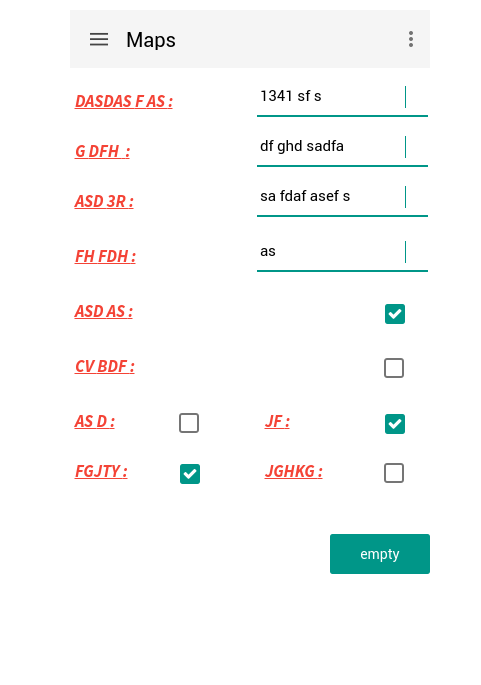
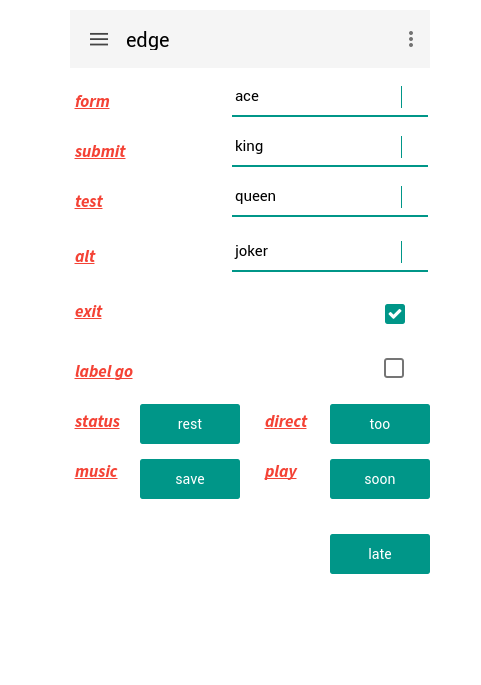
Added latest changes to develop

diff --git a/src/main/java/Pic2Code.java b/src/main/java/Pic2Code.java
@@ -1,0 +1,78 @@
+import model.Form;
+import model.FormWithText;
+import model.Row;
+import utils.*;
+import utils.text_extractor.TextExtractor;
+import utils.xml.ParserXML;
+
+import javax.imageio.ImageIO;
+import java.awt.*;
+import java.awt.datatransfer.StringSelection;
+import java.awt.image.BufferedImage;
+import java.util.List;
+
+public class Pic2Code {
+
+  private static Pic2Code INSTANCE;
+
+  private ProjectUtils project;
+  private ParametersHandler paramHandler;
+  private final BufferedImage image;
+  private List<Form> forms;
+
+  private Pic2Code(String[] args) throws Exception {
+    consoleMessage("Load project settings");
+    this.project = new ProjectUtils();
+
+    consoleMessage("Check parameters");
+    paramHandler = new ParametersHandler(args);
+    paramHandler.parseParameters();
+
+    consoleMessage("Read image");
+    image = ImageIO.read(paramHandler.getInputImage());
+
+    consoleMessage("Parse XML");
+    ParserXML parser = new ParserXML();
+    forms = parser.parse(paramHandler.getInputXML());
+    consoleMessage("Compute bias values");
+    forms = FormUtils.computeBias(forms, image.getWidth(), image.getHeight());
+  }
+
+  public void handle() {
+    try {
+      consoleMessage("Extract text");
+      TextExtractor textExtractor = new TextExtractor();
+      List<FormWithText> formsWithText = textExtractor.extract(image, forms);
+
+      // Skip divider operations for a while
+//      Divider divider = new Divider();
+//      List<Row> rows = divider.getRows(formsWithText);
+      //
+
+      consoleMessage("Generate code");
+      String code = CodeGeneratorUtils.generate(formsWithText);
+      Toolkit.getDefaultToolkit().getSystemClipboard().setContents(new StringSelection(code), null);
+
+      consoleMessage("Create Android project");
+      project.createAndroidProject(paramHandler.getOutDirectory());
+      project.writeContentXml(paramHandler.getOutDirectory(), code);
+      consoleMessage("Done");
+    } catch (Exception e) {
+      e.printStackTrace();
+    }
+  }
+
+  public static void init(String[] args) throws Exception {
+    if (INSTANCE == null) {
+      INSTANCE = new Pic2Code(args);
+    }
+  }
+
+  public static Pic2Code getInstance() {
+    return INSTANCE;
+  }
+
+  public static void consoleMessage(String msg) {
+    System.out.println(String.format("# %s", msg));
+  }
+}

diff --git a/src/main/java/utils/text_extractor/TextExtractorThreadPool.java b/src/main/java/utils/text_extractor/TextExtractorThreadPool.java
@@ -27,23 +27,27 @@ public class TextExtractorThreadPool {
   private void initCallables(List<Pair<Form, AnnotateImageRequest>> requests) {
     for (Pair<Form, AnnotateImageRequest> pair : requests) {
       Callable<FormWithText> callable = () -> {
-        if (pair.getSecondValue() == null)
-          return new FormWithText(pair.getFirstValue(), null);
+        try {
+          if (pair.getSecondValue() == null)
+            return new FormWithText(pair.getFirstValue(), null);
 
-        BatchAnnotateImagesResponse response = visionClient.batchAnnotateImages(Collections.singletonList(pair.getSecondValue()));
-        List<AnnotateImageResponse> responsesList = response.getResponsesList();
+          BatchAnnotateImagesResponse response = visionClient.batchAnnotateImages(Collections.singletonList(pair.getSecondValue()));
+          List<AnnotateImageResponse> responsesList = response.getResponsesList();
 
-        if (responsesList.isEmpty())
-          return new FormWithText(pair.getFirstValue(), null);
+          if (responsesList.isEmpty())
+            return new FormWithText(pair.getFirstValue(), null);
 
-        AnnotateImageResponse res = responsesList.get(0);
-        if (res.hasError())
-          return new FormWithText(pair.getFirstValue(), null);
+          AnnotateImageResponse res = responsesList.get(0);
+          if (res.hasError())
+            return new FormWithText(pair.getFirstValue(), null);
 
-        String text = res.getFullTextAnnotation().getText();
-        if (text.endsWith("\n"))
-          text = text.substring(0, text.length() - 1);
-        return new FormWithText(pair.getFirstValue(), text);
+          String text = res.getFullTextAnnotation().getText();
+          if (text.endsWith("\n"))
+            text = text.substring(0, text.length() - 1);
+          return new FormWithText(pair.getFirstValue(), text);
+        } catch (Exception e) {
+          return null;
+        }
       };
       callables.add(callable);
     }

diff --git a/android_source_project/pics2code_android_project/app/src/main/java/com/example/olahus/pics2code_android_project/MainActivity.java b/android_source_project/pics2code_android_project/app/src/main/java/com/example/olahus/pics2code_android_project/MainActivity.java
@@ -1,8 +1,7 @@
 package com.example.olahus.pics2code_android_project;
 
+import android.content.Intent;
 import android.os.Bundle;
-import android.support.design.widget.FloatingActionButton;
-import android.support.design.widget.Snackbar;
 import android.view.View;
 import android.support.design.widget.NavigationView;
 import android.support.v4.view.GravityCompat;
@@ -12,6 +11,8 @@ import android.support.v7.app.AppCompatActivity;
 import android.support.v7.widget.Toolbar;
 import android.view.Menu;
 import android.view.MenuItem;
+import android.widget.Button;
+import android.widget.Toast;
 
 public class MainActivity extends AppCompatActivity
         implements NavigationView.OnNavigationItemSelectedListener {
@@ -23,12 +24,11 @@ public class MainActivity extends AppCompatActivity
         Toolbar toolbar = (Toolbar) findViewById(R.id.toolbar);
         setSupportActionBar(toolbar);
 
-//        FloatingActionButton fab = (FloatingActionButton) findViewById(R.id.fab);
-//        fab.setOnClickListener(new View.OnClickListener() {
+//        Button btn = (Button) findViewById(R.id.button);
+//        btn.setOnClickListener(new View.OnClickListener() {
 //            @Override
-//            public void onClick(View view) {
-//                Snackbar.make(view, "Replace with your own action", Snackbar.LENGTH_LONG)
-//                        .setAction("Action", null).show();
+//            public void onClick(View v) {
+//                //Toast.makeText(getApplicationContext(), "Info message", Toast.LENGTH_LONG).show();
 //            }
 //        });
 

diff --git a/src/main/java/utils/text_extractor/TextExtractor.java b/src/main/java/utils/text_extractor/TextExtractor.java
@@ -37,7 +37,7 @@ public class TextExtractor {
     } catch (Exception e) {
       e.printStackTrace();
     }
-    return null;
+    return getDummyResult(forms);
   }
 
   private List<Pair<Form, AnnotateImageRequest>> computeRequests(BufferedImage inputImage, List<Form> forms) throws Exception {
@@ -69,6 +69,18 @@ public class TextExtractor {
     }
 
     return requests;
+  }
+
+  private List<FormWithText> getDummyResult(List<Form> forms) {
+    if (forms == null)
+      return null;
+    if (forms.isEmpty())
+      return new ArrayList<>();
+    List<FormWithText> result = new ArrayList<>();
+    for (Form form : forms) {
+      result.add(new FormWithText(form, null));
+    }
+    return result;
   }
 
   private static byte[] convertToBytes(BufferedImage image) throws Exception {

diff --git a/src/main/java/Pics2CodeApp.java b/src/main/java/Pics2CodeApp.java
@@ -1,0 +1,33 @@
+import javafx.application.Application;
+import javafx.scene.Scene;
+import javafx.scene.layout.BorderPane;
+import javafx.stage.Stage;
+
+public class Pics2CodeApp extends Application {
+
+  private Scene scene;
+
+  @Override
+  public void init() throws Exception {
+    BorderPane pane = new BorderPane();
+
+    scene = new Scene(pane, 450, 300);
+  }
+
+  @Override
+  public void start(Stage primaryStage) throws Exception {
+    primaryStage.setScene(scene);
+    primaryStage.setMaximized(true);
+    primaryStage.show();
+  }
+
+  public static void main(String[] args) {
+    try {
+      Pic2Code.init(args);
+      Pic2Code.getInstance().handle();
+//      launch(args);
+    } catch (Exception e) {
+      e.printStackTrace();
+    }
+  }
+}

diff --git a/src/main/java/model/FormWithText.java b/src/main/java/model/FormWithText.java
@@ -15,6 +15,6 @@ public class FormWithText {
   }
 
   public String getText() {
-    return text;
+    return text == null ? form.getLabel().getTag() : text;
   }
 }
